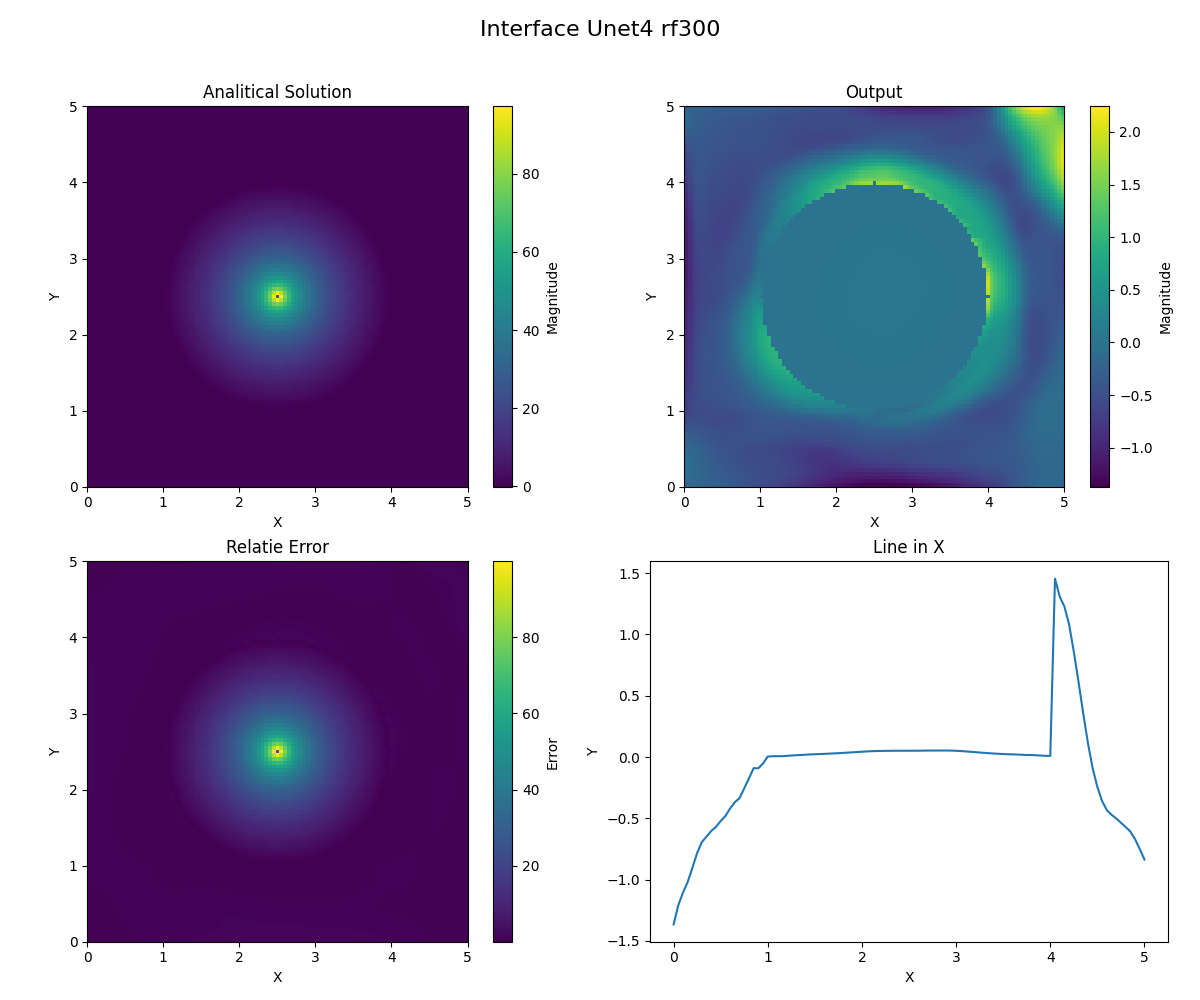
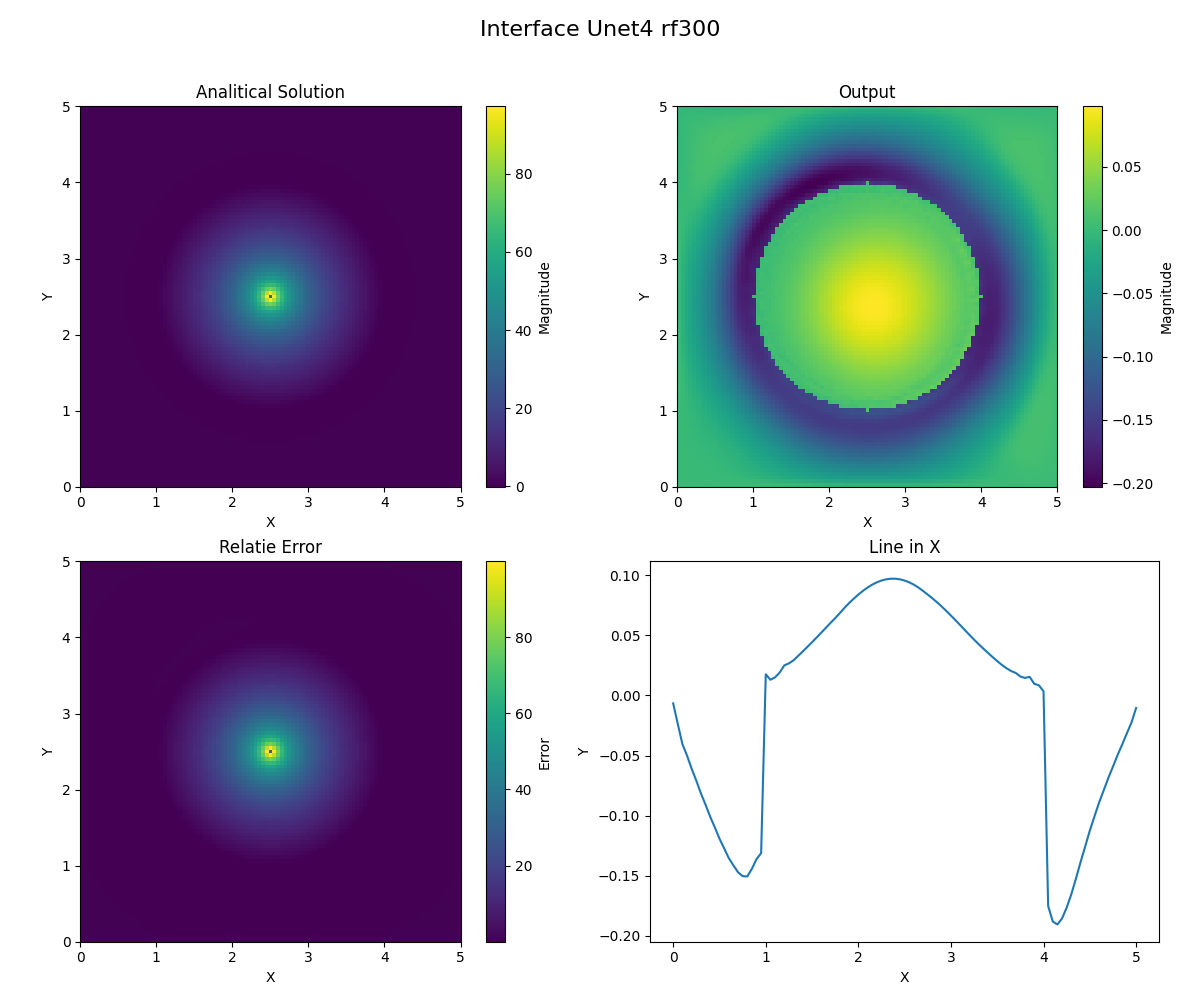
test

diff --git a/2D/training/operators.py b/2D/training/operators.py
@@ -15,7 +15,7 @@ class LaplacianLossInterface(nn.Module):
 
     def forward(self, output, data = None, data_norm = 1., mask = 1.):
         laplacian = lapl_interface(output / data_norm, self.dx, self.dy, mask, self.epsilon_inside, self.epsilon_outside)
-        loss = F.mse_loss(laplacian[:, 0, 1:-1, 1:-1], -data[:, 0, 1:-1, 1:-1]) * self.weight
+        loss = F.mse_loss(laplacian[:, 0, mask], -data[:, 0, mask]) * self.weight
         return loss
 
 class LaplacianLoss(nn.Module):

diff --git a/2D/training/train_interface.py b/2D/training/train_interface.py
@@ -88,7 +88,6 @@ for epoch in range (num_epochs):
 
         # Getting Outputs
         subdomain_in, subdomain_out = model(data)
-        subdomain_in_plot = subdomain_in.detach().numpy()
 
         # Loss
         loss = laplacian_loss(subdomain_in, data = data, data_norm = data_norm, mask = inner_mask)
